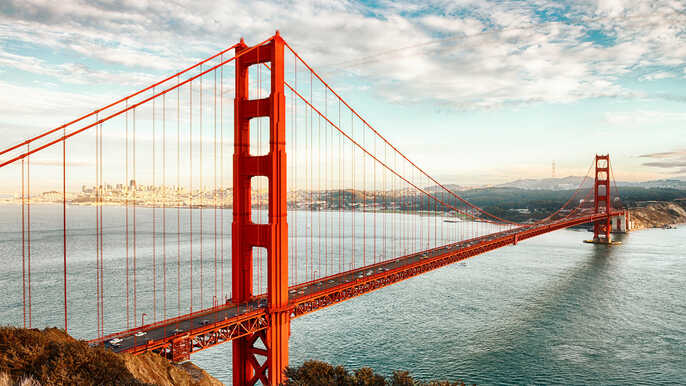
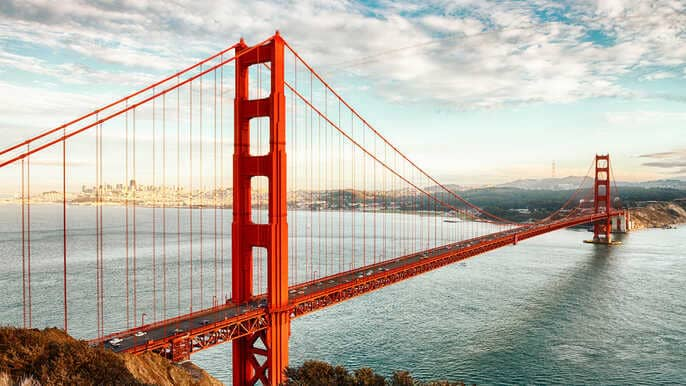
Сжал изображения, поправил баг с доком слайдера.

diff --git a/scss/_top-dials.scss b/scss/_top-dials.scss
@@ -48,6 +48,7 @@
                 display: flex;
                 bottom: -30px;
                 left: calc(50% - 100px);
+                list-style: none;
                 li {
                     margin: 0 10px;
                     width: 10px;
@@ -61,8 +62,8 @@
                         transform: translateY(-3px);
                     }
                     button {
-                        font-size: 0;
-                        
+                        opacity: 0;
+                        display: none;
                     }
                 }
             }

diff --git a/css/style.css b/css/style.css
@@ -1424,6 +1424,7 @@ section {
   display: flex;
   bottom: -30px;
   left: calc(50% - 100px);
+  list-style: none;
 }
 
 .top-deals-slider-block .slider-wrap .slider .slick-dots li {
@@ -1443,7 +1444,8 @@ section {
 }
 
 .top-deals-slider-block .slider-wrap .slider .slick-dots li button {
-  font-size: 0;
+  opacity: 0;
+  display: none;
 }
 
 .top-deals-slider-block .slider-wrap .slider .slider-dial-block {

diff --git a/scss/_header.scss b/scss/_header.scss
@@ -422,3 +422,7 @@
         }
     }
 }
+
+@media (max-width: 768px) {
+    
+}
